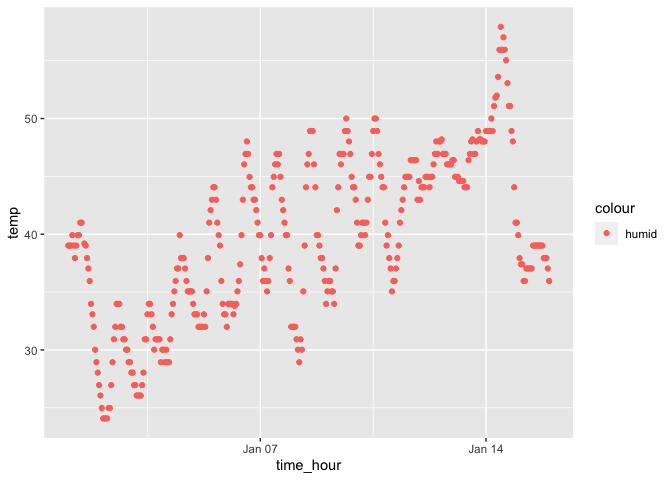
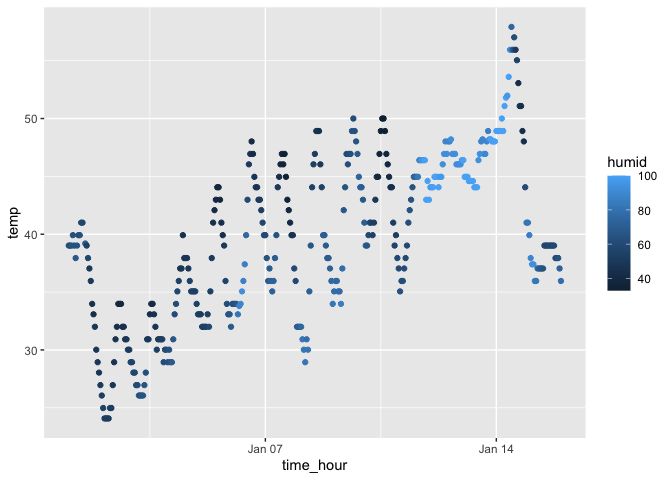
Final Commit

diff --git a/hw1.md b/hw1.md
@@ -3,11 +3,6 @@ P8104 HW 1 LEL2176
 
 # Problem 1
 
-``` r
-#load in library and dataset
-library(tidyverse)
-```
-
     ## ── Attaching core tidyverse packages ──────────────────────── tidyverse 2.0.0 ──
     ## ✔ dplyr     1.1.3     ✔ readr     2.1.4
     ## ✔ forcats   1.0.0     ✔ stringr   1.5.0
@@ -19,13 +14,23 @@ library(tidyverse)
     ## ✖ dplyr::lag()    masks stats::lag()
     ## ℹ Use the conflicted package (<http://conflicted.r-lib.org/>) to force all conflicts to become errors
 
-``` r
-library(moderndive)
-data("early_january_weather")
-```
+the the `early_january_weather` dataset, the most important variables
+are `temp`, `dewp`, `humid`, `wind_dir`, `wind_speed`, `wind_gust`,
+`precip`, `visib`, and `pressure`, which are all recorded according to
+`year`, `month`, `day`, and `hour` and `time_hour`. we are able to
+observe fairly consistent values for all variable with a few outliers.
+there are missing values for the `wind_gust` column, and all 0 values
+for the `precip` column. the temperatures seem to be in the upper 30s
+and low 40s. the dewp is in the high 20s. the humid is in the upper 50s
+and low 60s. wind direction is in the mid 200s and wind speed varys from
+aroudn 8 to 15. the pressure stays fairly constant aroudn 1012. the rows
+of the data set `nrow(early_january_data)`is 358. the columns of the
+data set `ncol(early_january_data)` is 15. the mean temperature of the
+data is: `mean(early_january_weather[["temp”]]` which is equal to
+39.58212.
 
 ``` r
-weather_scat = ggplot(early_january_weather, aes(x = time_hour, y  = temp, color = "humid")) + geom_point()
+weather_scat = ggplot(early_january_weather, aes(x = time_hour, y  = temp, color = humid)) + geom_point()
 weather_scat
 ```
 
@@ -37,15 +42,56 @@ ggsave("weather_scat.pdf")
 
     ## Saving 7 x 5 in image
 
+the scatter plot `weather_scat` shows the relationship between time
+measure by hours and the recorded temperature. when analyzing the graph
+there is a clear sinusoidal wave pattern that repeats everyday. these
+waves represents the highs and lows of daily temperature with the
+temperature peaking midday and dropping during the night when the sun is
+gone. however, the overall trend of the line has an increasing slope
+showing that the temperature is slowly increasing as the days go on.
+
 # Problem 2
 
 ``` r
-plot_df = 
+hw1_df = 
   tibble(
     x = rnorm(10),
-    vec_logical = c(x>0),
+    vec_log = c(x>0),
     vec_char = c("Child", "Adult", "Old Age", "Old Age", "Adult", "Old Age",
                  "Child", "Adult", "Adult", "Child"),
     vec_fact = factor(vec_char, levels = c("Child", "Adult", "Old Age"))
   )
 ```
+
+When trying to take the mean of each variable of my data frame, I was
+able to obtain a numerical answer for `x` (my random sample) and
+`vec_log` (my logical vector), but not `vec_char` (my character vector)
+or `vec_fact` (my factor vector). I found my mean by doing
+`mean(hw1_df[[“variable_name”]])` but I also could have implemented the
+`pull()` funciton in order to pull out specific variables from the
+dataframe. example: `pull(hw1_df, "vec_fact")` would give me just the
+factor vector from the dataframe.
+
+``` r
+num_log = as.numeric(hw1_df[["vec_log"]])
+num_char = as.numeric(hw1_df[["vec_char"]])
+```
+
+    ## Warning: NAs introduced by coercion
+
+``` r
+num_fact = as.numeric(hw1_df[["vec_fact"]])
+```
+
+when using the `as.numeric` function, I am able to output the vectors
+from my dataframe as numeric vectors. `as.num(hw1_df[["vec_log"]])`
+outputs my logical vector as a vector of numbers, which makes sense why
+I was able to calculate the mean for this vector.
+`as.numeric(hw1_df[["vec_char"]])` outputs a vector of only NA values
+because it was not able to convert the vector into numerical values,
+which makes sense why I was not able to calculate the mean of this
+vector. `as.numeric(hw1_df[["vec_fact"]])` outputs a vector with
+numerical values, which does not make sense because I am not able to
+calculate the mean of this vector, yet it is able to be converted into
+numerical values. however, I am able to find the mean of `vec_fact`
+using the newly created numerical vector: `mean(num_fact)` = 2.
